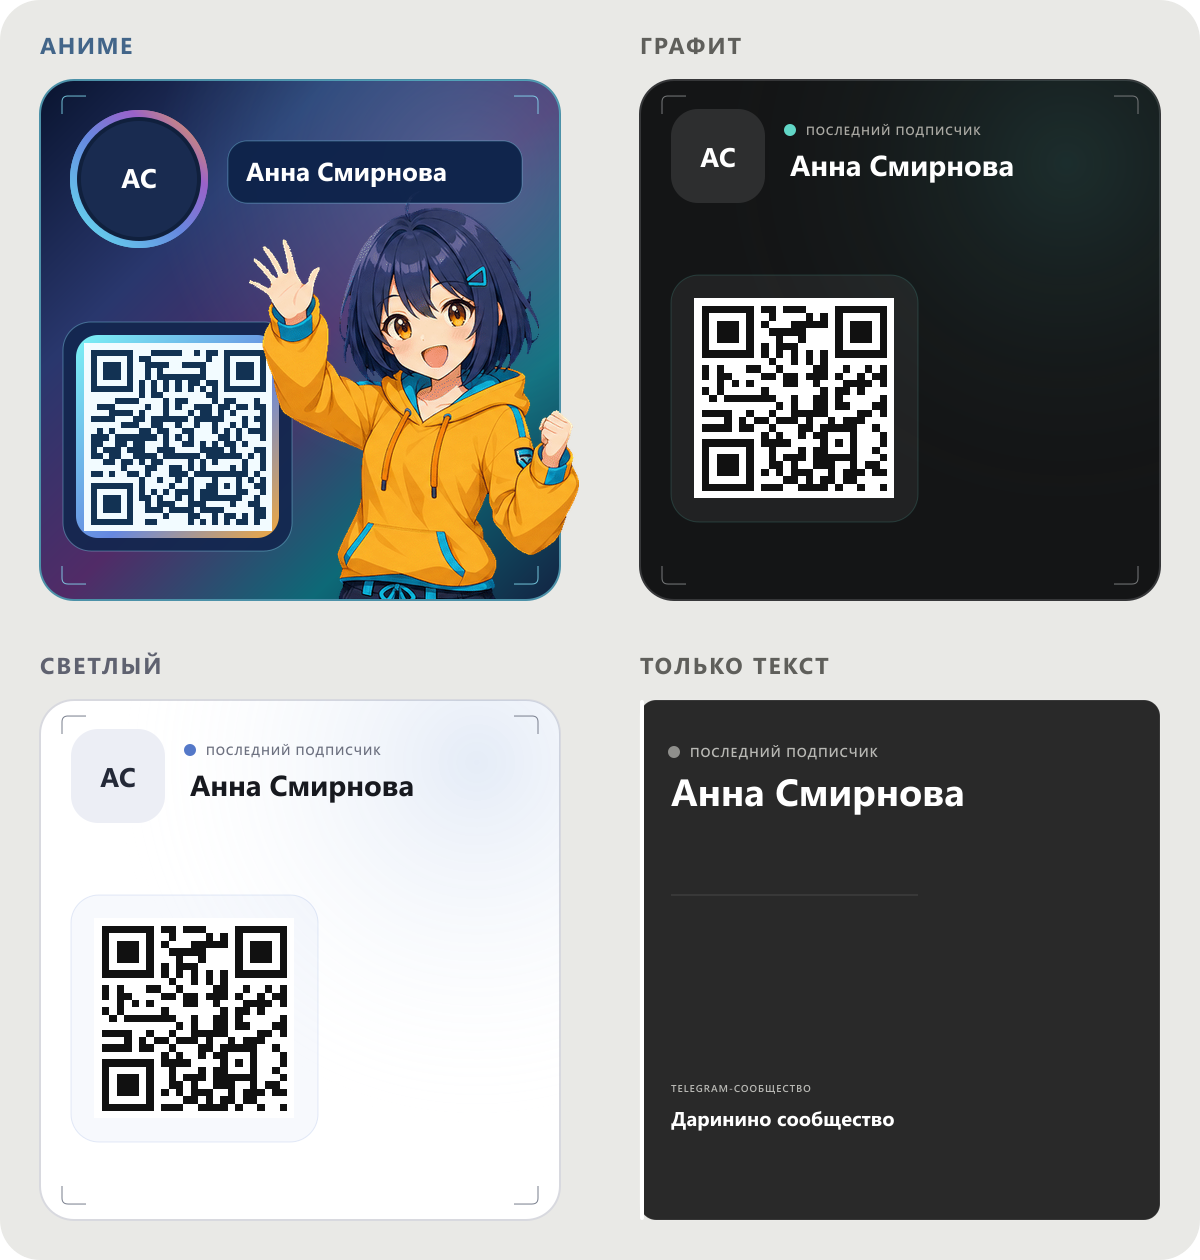
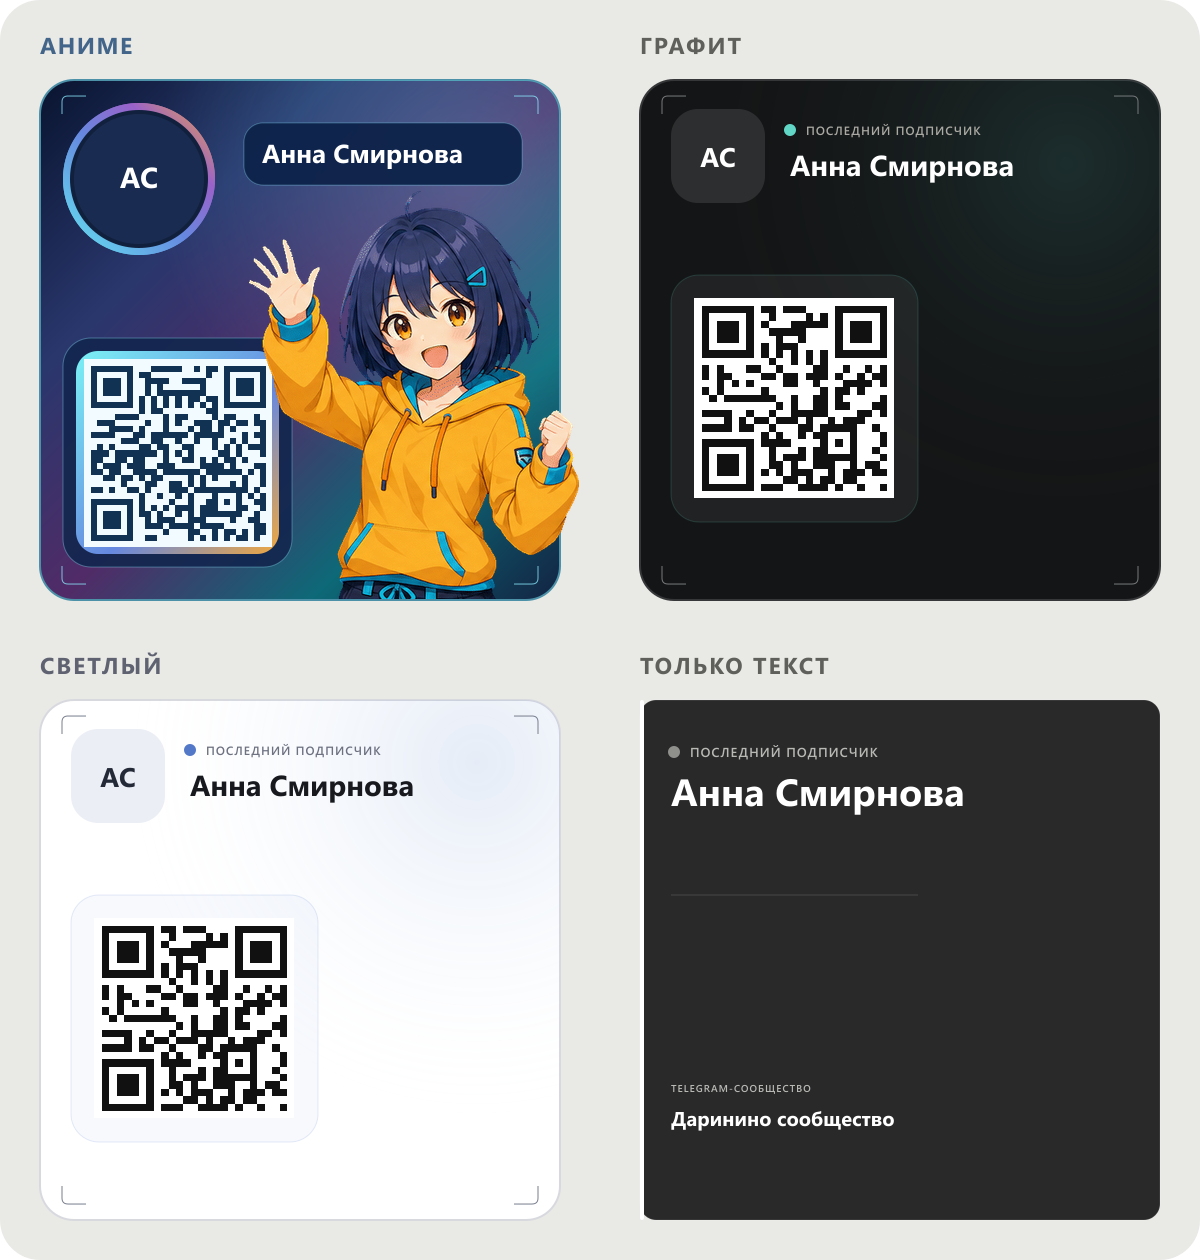
Refine anime overlay identity layout

Changed region(s): [[0.0308, 0.2476, 0.2467, 0.4643], [0.0925, 0.0619, 0.4317, 0.1857], [0.0308, 0.0929, 0.1542, 0.2167]]

diff --git a/app/globals.css b/app/globals.css
@@ -889,18 +889,18 @@ a { -webkit-tap-highlight-color: transparent; }
   display: grid;
   width: 364px;
   height: 124px;
-  grid-template-columns: 118px minmax(0, 232px);
-  gap: 14px;
+  grid-template-columns: 126px minmax(0, 224px);
+  gap: 12px;
   align-items: center;
 }
 
 .subscriber-wrap[data-style="anime"] .avatar-shell,
-.subscriber-wrap[data-style="anime"] .avatar { width: 110px; height: 110px; }
+.subscriber-wrap[data-style="anime"] .avatar { width: 120px; height: 120px; }
 
 .subscriber-wrap[data-style="anime"] .avatar-shell {
   display: grid;
-  width: 116px;
-  height: 116px;
+  width: 126px;
+  height: 126px;
   place-items: center;
   border-radius: 50%;
   background: conic-gradient(from 205deg, #64e8f1, #4969ca 34%, #8e62c9 58%, #ffb342 77%, #64e8f1);
@@ -910,11 +910,14 @@ a { -webkit-tap-highlight-color: transparent; }
   border: 3px solid #15284a;
   border-radius: 50%;
   background: linear-gradient(145deg, rgba(64,87,148,.92), rgba(18,33,70,.94));
-  font-size: 24px;
+  font-size: 26px;
   backdrop-filter: blur(8px);
 }
 .subscriber-wrap[data-style="anime"] .avatar-platform { display: none; }
 .subscriber-wrap[data-style="anime"] .subscriber-copy {
+  position: relative;
+  top: -14px;
+  left: 14px;
   display: flex;
   min-width: 0;
   align-items: center;
@@ -924,7 +927,7 @@ a { -webkit-tap-highlight-color: transparent; }
   overflow: hidden;
   width: fit-content;
   min-width: 0;
-  max-width: 232px;
+  max-width: 224px;
   padding: 12px 14px 13px;
   border: 1px solid rgba(142,232,255,.18);
   border-radius: 15px;
@@ -973,7 +976,7 @@ a { -webkit-tap-highlight-color: transparent; }
 .anime-qr {
   position: absolute;
   z-index: 3;
-  top: 186px;
+  top: 198px;
   left: 18px;
   display: grid;
   box-sizing: border-box;

diff --git a/app/api/telegram/webhook/route.ts b/app/api/telegram/webhook/route.ts
@@ -173,7 +173,7 @@ async function sendInstallationPanel(chatId: number | string, installation: Stre
 async function sendStylePanel(chatId: number | string, installation: StreamerInstallation, baseUrl: string) {
   await telegramCall("sendPhoto", {
     chat_id: chatId,
-    photo: `${baseUrl}/style-preview.png?v=12`,
+    photo: `${baseUrl}/style-preview.png?v=13`,
     caption: styleCaption(installation),
     parse_mode: "HTML",
     reply_markup: styleKeyboard(installation),
